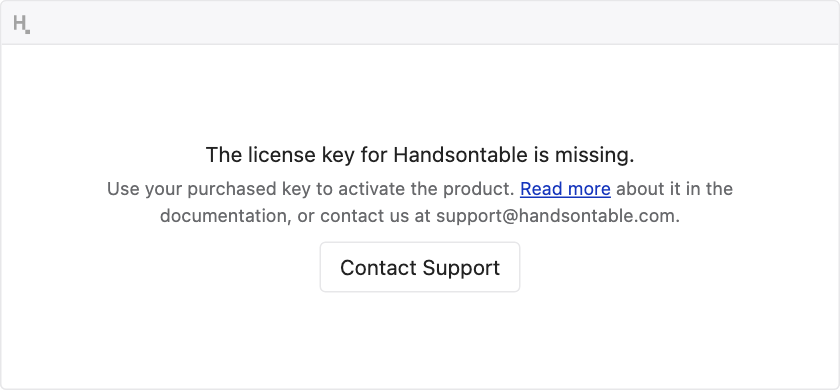
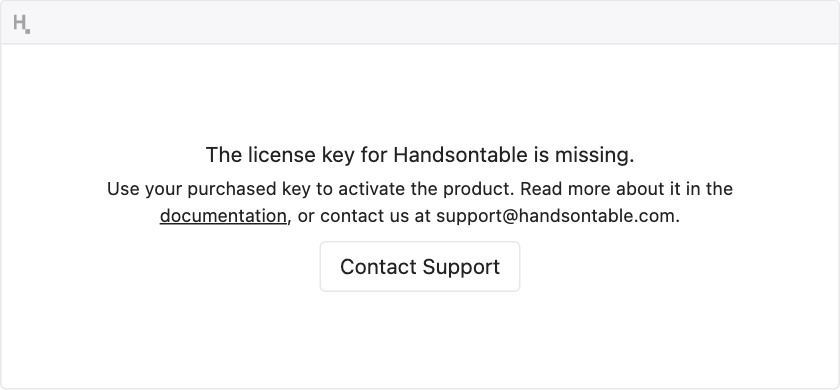
DEV-4014: Refresh lock screenshots, split modal and console text, pin description

Changed region(s): [[0.1238, 0.4615, 0.8667, 0.5846], [0.4024, 0.6462, 0.5881, 0.7077]]

diff --git a/tests/e2e/license-branding.spec.ts b/tests/e2e/license-branding.spec.ts
@@ -320,23 +320,34 @@ test.describe('entitlement license key branding', { tag: THEMES_TAG }, () => {
   test.describe('a key that cannot be read, and no key at all', () => {
     // DEV-2562: the two install faults BLOCK from 18.1 on (the specification's S4.5 shape). Their
     // sentences moved out of the bottom bar and into the modal, so the bar must be gone.
+    const INVALID = {
+      title: 'The license key for Handsontable is invalid.',
+      description: 'Read more in the documentation on how to install it properly, or contact us at support@handsontable.com.',
+    };
     const FAULTS = [
-      { key: 'tampered', title: 'The license key for Handsontable is invalid.' },
+      { key: 'tampered', ...INVALID },
       // A current key protects its text, so a key whose text was edited is an unreadable key as well.
-      { key: 'edited-prose', title: 'The license key for Handsontable is invalid.' },
-      { key: 'missing', title: 'The license key for Handsontable is missing.' },
+      { key: 'edited-prose', ...INVALID },
+      {
+        key: 'missing',
+        title: 'The license key for Handsontable is missing.',
+        description: 'Use your purchased key to activate the product. Read more about it in the documentation, ' +
+          'or contact us at support@handsontable.com.',
+      },
       // PRO-1356: Handsontable 19.0 no longer recognizes the non-commercial key, so it locks the
       // grid as an invalid key does.
-      { key: 'non-commercial', title: 'The license key for Handsontable is invalid.' },
+      { key: 'non-commercial', ...INVALID },
     ] as const;
 
-    for (const { key, title } of FAULTS) {
+    for (const { key, title, description } of FAULTS) {
       test(`blocks the grid with a non-closable modal, and no bar, for a "${key}" key`, async ({ page }) => {
         await license.goto(INSTANT.duringTrial, { key });
 
         await expect(license.lock).toBeVisible();
         await expect(license.lock).toHaveAttribute('role', 'alertdialog');
         await expect(license.lock).toContainText(title);
+        // The link is read in its sentence: the lock's description is the whole text, "documentation" inside it (2.4.4).
+        await expect(license.lock).toHaveAccessibleDescription(description);
         // The bar is withdrawn: one surface says it, not two. And no badge - that is the trial's.
         await expect(license.bar).toHaveCount(0);
         await expect(license.badge).toHaveCount(0);

diff --git a/handsontable/src/helpers/mixed.ts b/handsontable/src/helpers/mixed.ts
@@ -161,8 +161,8 @@ export function _renderMessageParts(target: HTMLElement, parts: MessagePart[], o
 
 const domMessages: Record<string, (params: { keyValidityDate?: string; hotVersion?: string }) => MessagePart[]> = {
   invalid: () => [
-    'The license key for Handsontable is invalid. Read more in the ',
-    { text: 'documentation', href: 'https://handsontable.com/docs/tutorial-license-key.html', target: '_blank' },
+    'The license key for Handsontable is invalid. ',
+    { text: 'Read more', href: 'https://handsontable.com/docs/tutorial-license-key.html', target: '_blank' },
     ' on how to install it properly or contact us at ',
     { text: 'support@handsontable.com', href: 'mailto:support@handsontable.com' },
     '.',
@@ -177,10 +177,9 @@ const domMessages: Record<string, (params: { keyValidityDate?: string; hotVersio
     '.',
   ],
   missing: () => [
-    'The license key for Handsontable is missing. Use your purchased key to activate the product. ' +
-      'Read more about it in the ',
-    { text: 'documentation', href: 'https://handsontable.com/docs/tutorial-license-key.html', target: '_blank' },
-    ' or contact us at ',
+    'The license key for Handsontable is missing. Use your purchased key to activate the product. ',
+    { text: 'Read more', href: 'https://handsontable.com/docs/tutorial-license-key.html', target: '_blank' },
+    ' about it in the documentation or contact us at ',
     { text: 'support@handsontable.com', href: 'mailto:support@handsontable.com' },
     '.',
   ],

diff --git a/docs/content/guides/getting-started/license-key/license-key.md b/docs/content/guides/getting-started/license-key/license-key.md
@@ -474,7 +474,7 @@ Entitlement keys extend this process. A trial or subscription key carries its ex
 
 If your license key is missing, invalid, or expired, Handsontable displays a notification. Where it appears depends on the problem.
 
-A **missing or invalid key** blocks the grid. Handsontable covers it with a modal that cannot be closed, and repeats the message in the console. Create the instance with a valid key to remove it. The grid is not usable until you do.
+A **missing or invalid key** blocks the grid. Handsontable covers it with a modal that cannot be closed, and prints a message in the console. Create the instance with a valid key to remove it. The grid is not usable until you do.
 
 <span class="img-light">
 
@@ -498,15 +498,23 @@ The messages are as follows:
 
 ### Missing license key
 
-Shown in a blocking modal and in the console:
+Shown in a blocking modal:
 
-_The license key for Handsontable is missing. Use your purchased key to activate the product.  Read more about it in the documentation, or contact us at `[email]`._
+_The license key for Handsontable is missing. Use your purchased key to activate the product. Read more about it in the documentation, or contact us at `[email]`._
+
+Printed in the console:
+
+_The license key for Handsontable is missing. Use your purchased key to activate the product. If you need any help, contact us at `[email]`._
 
 ### Invalid license key
 
-Shown in a blocking modal and in the console:
+Shown in a blocking modal:
 
-_The license key for Handsontable is invalid.  Read more in the documentation on how to install it properly, or contact us at `[email]`._
+_The license key for Handsontable is invalid. Read more in the documentation on how to install it properly, or contact us at `[email]`._
+
+Printed in the console:
+
+_The license key for Handsontable is invalid. If you need any help, contact us at `[email]`._
 
 Since Handsontable 19.0, the `non-commercial-and-evaluation` key, and its second form
 `ht68e-1f2b7-47158-70b05-0842f`, show this message too. To keep using Handsontable, pass a key from
